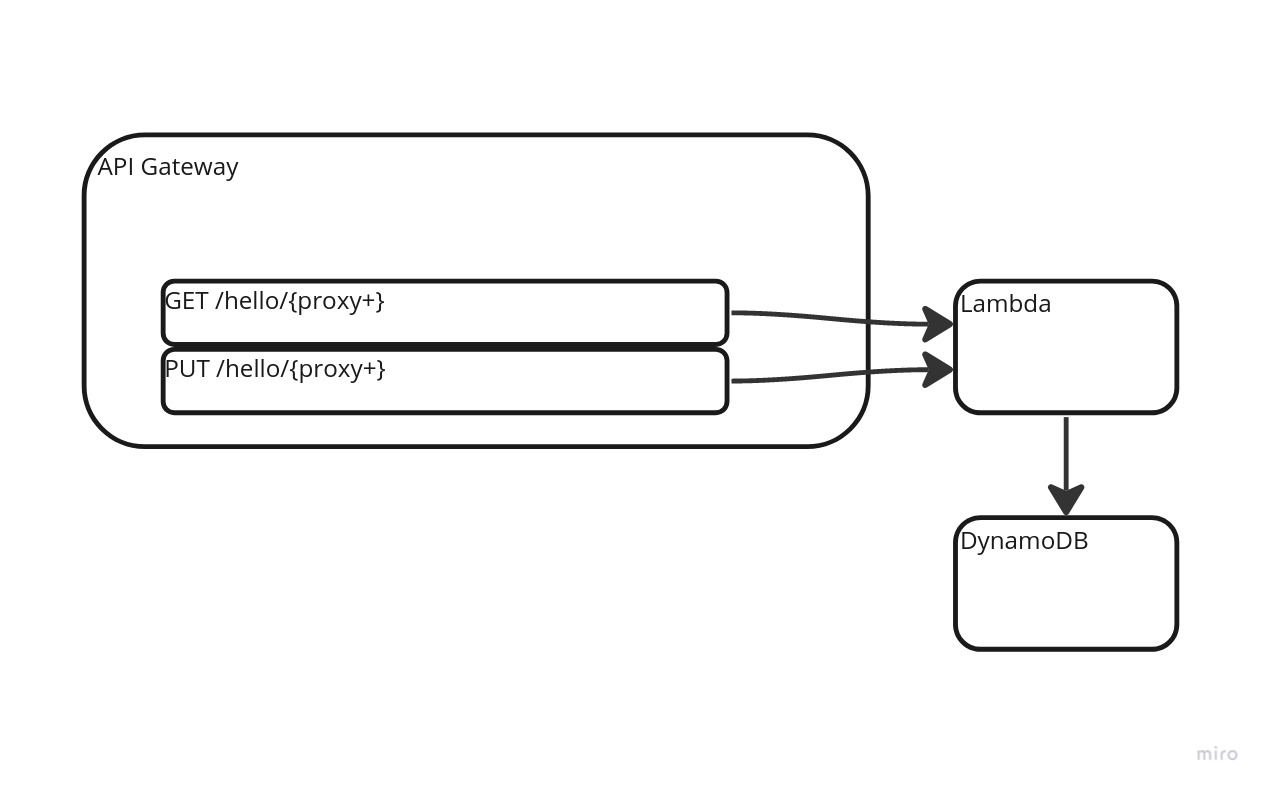
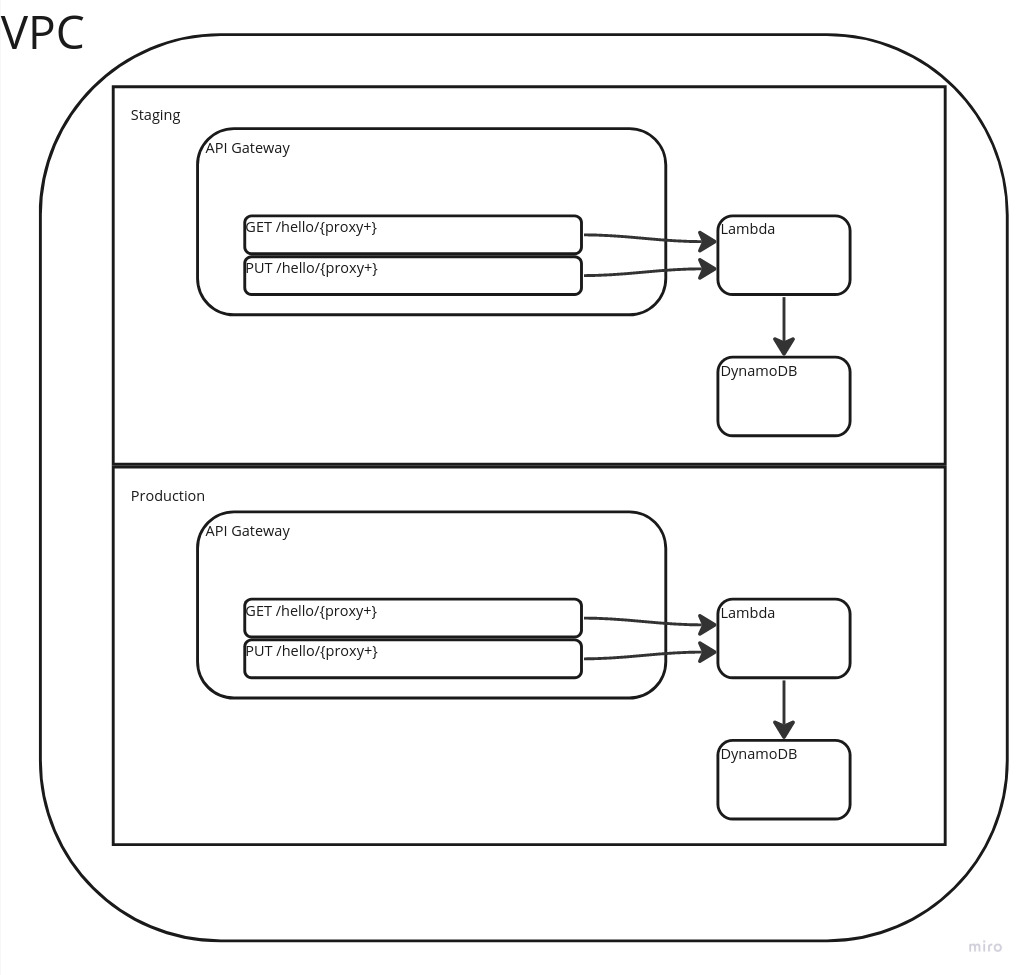
update readme and architecture diagram to indicate deployment possibilities

diff --git a/README.md b/README.md
@@ -92,4 +92,6 @@ Any changes to the API Gateway resources will cause a new API Gateway deployment
 
 Deployments can be pushed to staging first as all resources are scoped to the environment. This combination gives a possibility of no downtime deployments.
 
-![Architecture diagram of the VPC containing an API Gateway with two endpoints that each trigger the same Lambda, which accesses DynamoDB](images/Technical%20Diagrams%20-%20VPC.jpg)
+This concept of overlapping environments can co-exist in the same VPC, as shown:
+
+![Architecture diagram of the VPC containing a pair of deployments, each with an API Gateway with two endpoints that each trigger the same Lambda, which accesses DynamoDB](images/Technical%20Diagrams%20-%20VPC.jpg)
